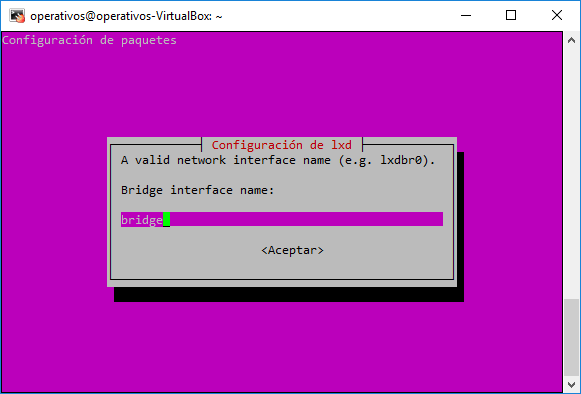
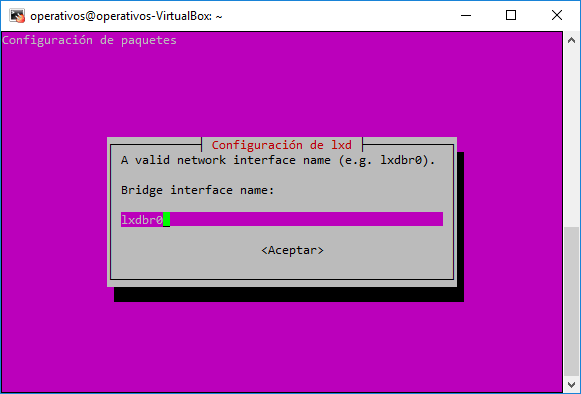
Add more info to README.md

Changed region(s): [[0.9604, 0.5787, 1.0, 0.7614], [0.1859, 0.5482, 0.2788, 0.5787]]

diff --git a/A00054000/README.md b/A00054000/README.md
@@ -89,7 +89,7 @@
 $ sudo apt install lxd lxd-client
 ```
 
-* Además, es necesario instalar el paquete de bridge-utils que contiene una utilidad necesaria para crear y administrar dispositivos puente, lo cual es útil para configurar redes para una máquina virtual. Para instalar este paquete utilizaremos el siguiente comando.
+* Además, es necesario instalar el paquete de bridge-utils que contiene una utilidad necesaria para crear y administrar interfaces bridge, lo cual es útil para configurar redes para una máquina virtual. Para instalar este paquete utilizaremos el siguiente comando.
 
 ```Console
 $ sudo apt-get install bridge-utils
@@ -128,7 +128,7 @@ $ sudo lxd init
 
 ![](imgs/cb/captura_2.PNG)
 
-* Después de entrar en esta interfaz, vamos a indicarle un nombre a la nueva interfaz puente; por cuestiones prácticas le vamos a poner 'bridge' y aceptamos para pasar a la siguiente pantalla.
+* Después de entrar en esta interfaz, vamos a indicarle un nombre a la nueva interfaz puente; por cuestiones prácticas dejamos el valor por defecto y aceptamos para pasar a la siguiente pantalla.
 
 ![](imgs/cb/captura_3.PNG)
 
@@ -136,7 +136,7 @@ $ sudo lxd init
 
 ![](imgs/cb/captura_4.PNG)
 
-* Luego, debemos indicar una dirección IPv4 y en este caso utilizaremos la ip '192.168.2.0'.
+* Luego, debemos indicar una dirección IPv4 y en este dejaremos el valor que aparece indicado en pantalla.
 
 ![](imgs/cb/captura_5.PNG)
 
@@ -144,11 +144,11 @@ $ sudo lxd init
 
 ![](imgs/cb/captura_6.PNG)
 
-* En el siguiente cuadro vamos a indicarle la primera dirección IP que se usará en nuestra lista de direcciones (DHCP). Utilizaremos la ip '192.168.2.0' que es la misma que aparece en el paso de arriba.
+* En el siguiente cuadro vamos a indicarle la primera dirección IP que se usará en nuestra lista de direcciones (DHCP). Dejamos el mismo valor que aparece por defecto y presionamos en 'Aceptar'.
 
 ![](imgs/cb/captura_7.PNG)
 
-* Lo siguiente que haremos es indicar cual será la última dirección IP de nuestro pool de direcciones. Asignaremos la dirección '192.168.2.254'
+* Lo siguiente que haremos es indicar cual será la última dirección IP de nuestro pool de direcciones. Dejaremos el valor que aparece por defecto.
 
 ![](imgs/cb/captura_8.PNG)
 
@@ -163,6 +163,66 @@ $ sudo lxd init
 * Finalmente, podemos observar en la siguiente captura que la configuración fue exitosa.
 
 ![](imgs/cb/captura_11.PNG)
+
+## Creación de contenedores con servicio web (tenga en cuenta que son dos contenedores web)
+* El primer comando que ejcutaremos para crear nuestro primer contenedor web es el siguiente.
+
+```Console
+$ lxc launch ubuntu:16.04 webserver1
+```
+
+* Debido a que nunca se habían creado contenedores en nuestra máquina virtual, el comando anterior descarga una imágen de ubuntu 16.04 y la almacena en disco para que pueda ser utilizada como plantilla para otros contenedores. 
+
+* Repetiremos el comando anterior para 'webserver2' y para 'loadbalancer' y ya tendremos 3 contenedores. A continuación, se puede ver la lista de contenedores creados mediante el comando 'lxc list'.
+
+![](imgs/cc/captura_1.PNG)
+
+* En la imagen anterior, podemos observar que la asignación de IPs se realiza de forma automática a partir de la configuración de la interfaz bridge creada en los pasos anteriores. Además, los contenedores se encuentran activos. 
+
+* Lo siguiente que haremos es alojar un sitio web utilizando nginx en el primer contendor y segundo, para ello entramos a su shell utilizando el siguiente comando.
+
+```Console
+$ lxc exec webserver1 -- /bin/bash
+```
+
+* Dentro del shell del contenedor webserver1, ejecutaremos el comando que se mostrará a continuación, el cual permite instalar un servidor web/proxy llamado nginx.
+
+```Console
+$ sudo apt-get install nginx
+```
+
+* Después de terminarse la instalación del servidor, iremos a la carpeta /var/www/html/ y editaremos el archivo index que se encuentra adentro. Esto lo podemos hacer con el siguiente comando.
+
+```Console
+$ sudo vi /var/www/html/index.nginx-debian.html
+```
+
+* El comando anterior nos muestra el siguiente contenido, el cual va a ser la página principal que podra ser vista cuando se acceda al servidor.
+
+![](imgs/cc/captura_2.PNG)
+
+* Para diferenciar este contenido del servidor dos, modificaremos el archivo dejandolo de la siguiente forma.
+
+![](imgs/cc/captura_3.PNG)
+
+* Lo siguiente que haremos es ejecutar el siguiente comando para verificar el estado del servidor nginx.
+
+```Console
+$ sudo service nginx status
+```
+
+* En la siguiente captura podemos observar que el servidor se encuentra funcionando correctamente.
+
+![](imgs/cc/captura_5.PNG)
+
+* Lo siguiente que haremos es salirnos del shell del contendor webserver1 utilizando el comando 'exit' y vamos a hacerle una petición CURL a la ip donde se encuentra el contenedor que es la '10.60.248.73'. En la siguiente imagen se ve el resultado de hacer la petición y efectivamente el servidor se encuentra funcionado.
+
+![](imgs/cc/captura_4.PNG)
+
+* Realizamos el mismo procedimiento para el webserver2 y este es el resultado final de hacerle curl a ambos servidores.
+
+![](imgs/cc/captura_6.PNG)
+
 
 ## Bibliografía
 * https://community.netapp.com/t5/Espa%C3%B1a/Storage-Pools/ba-p/99752
